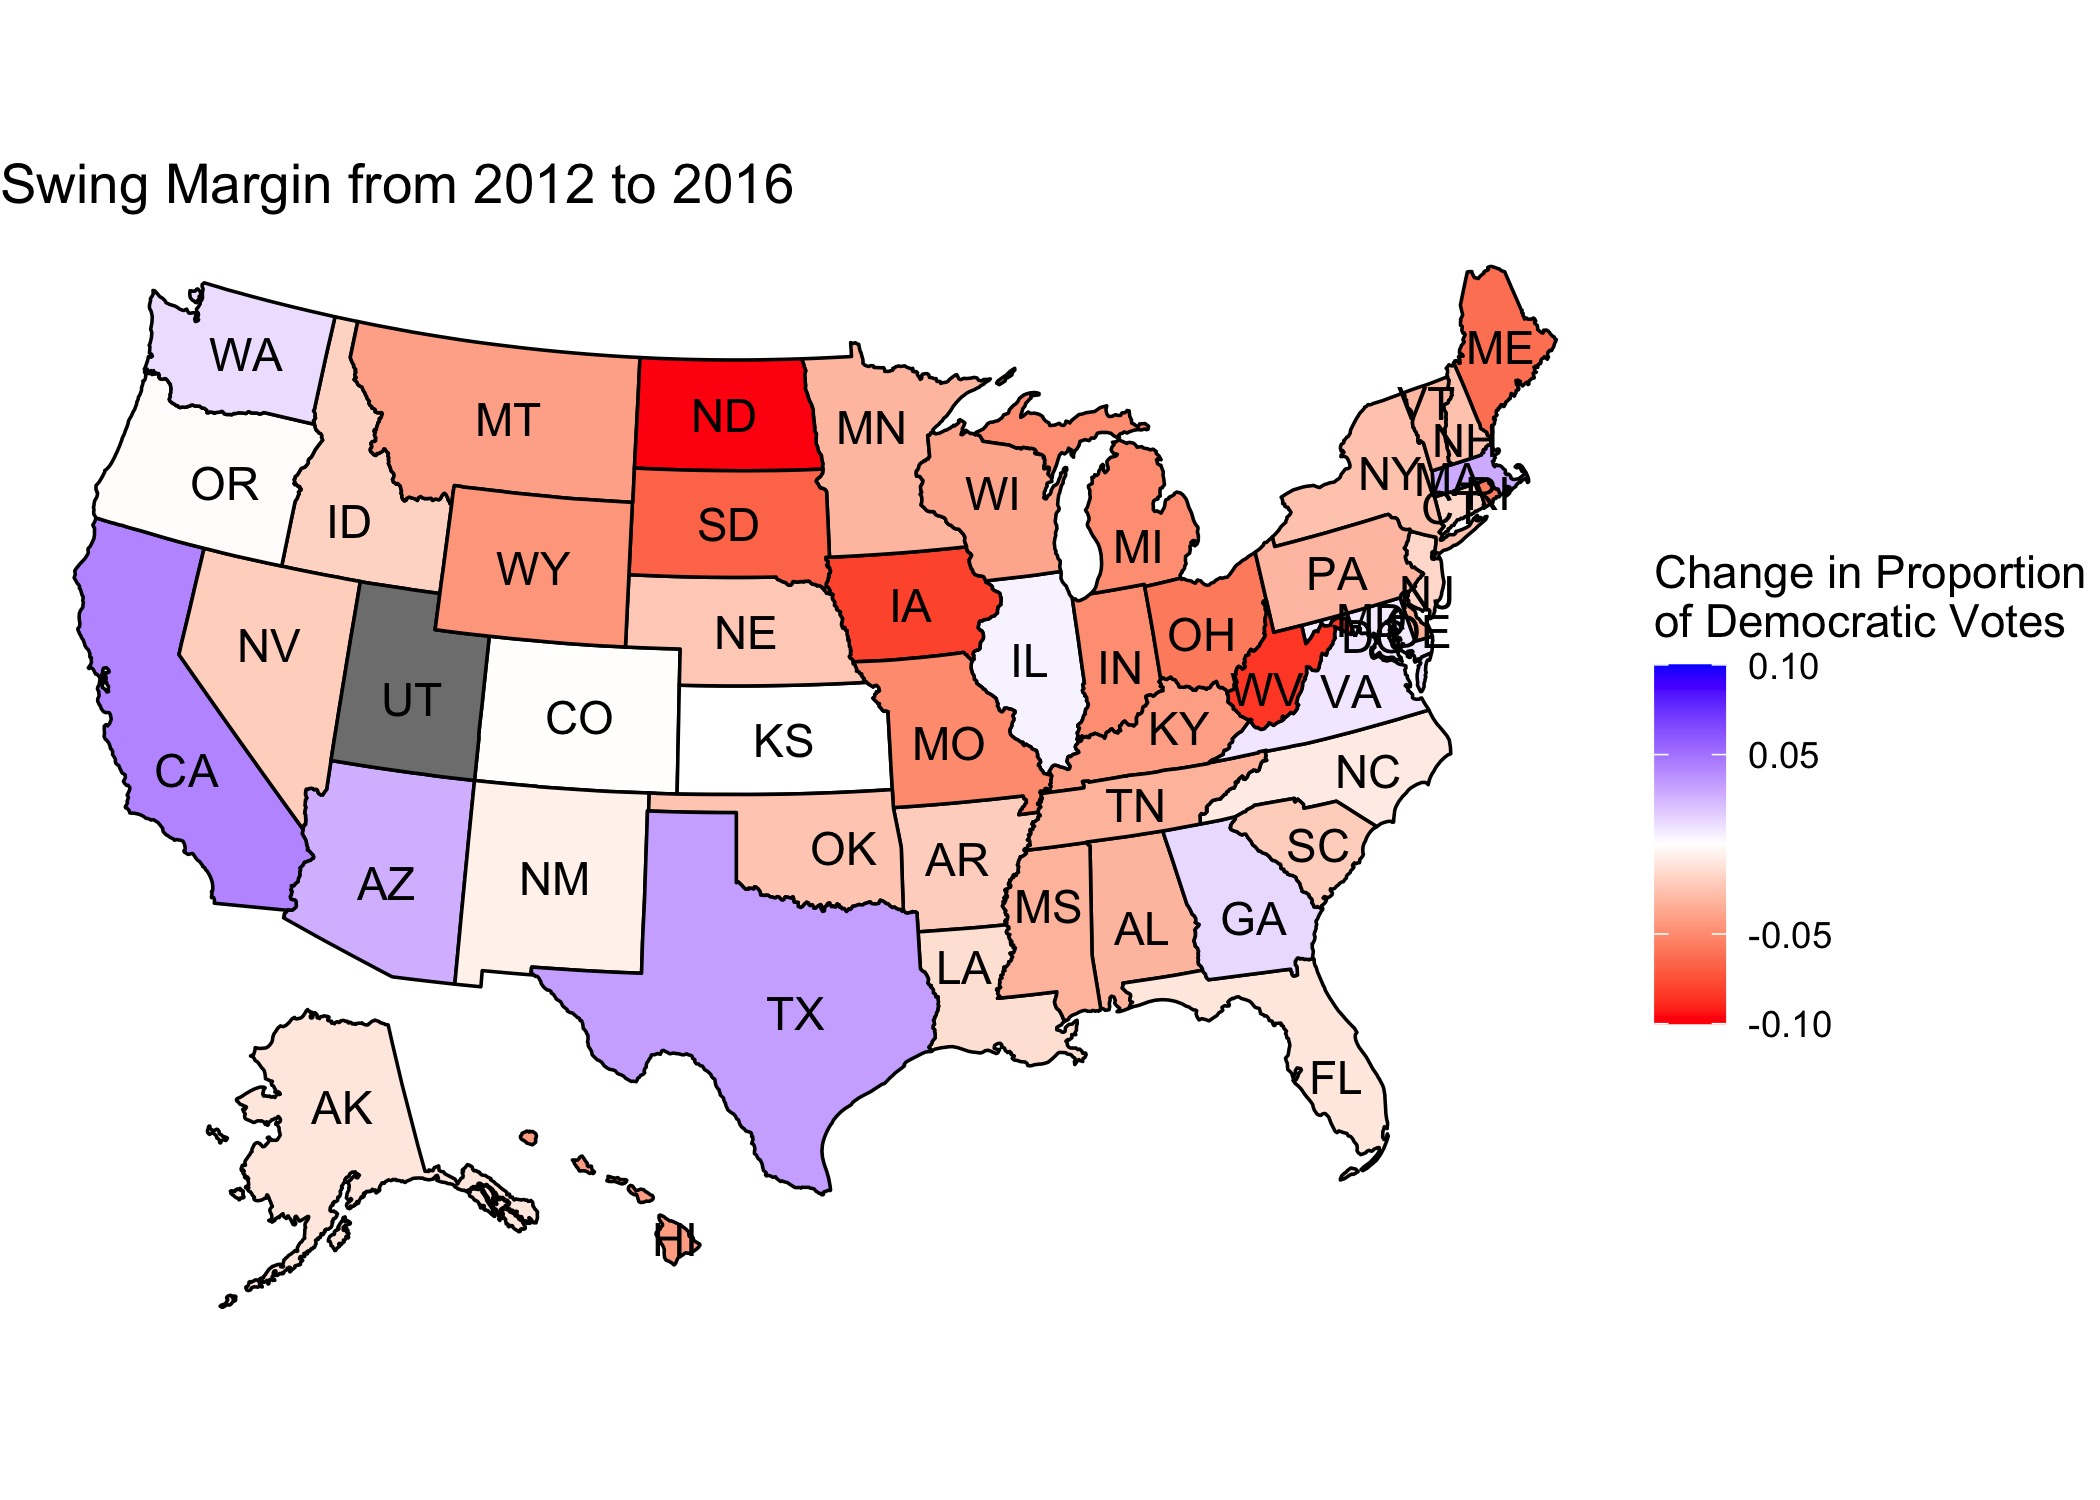
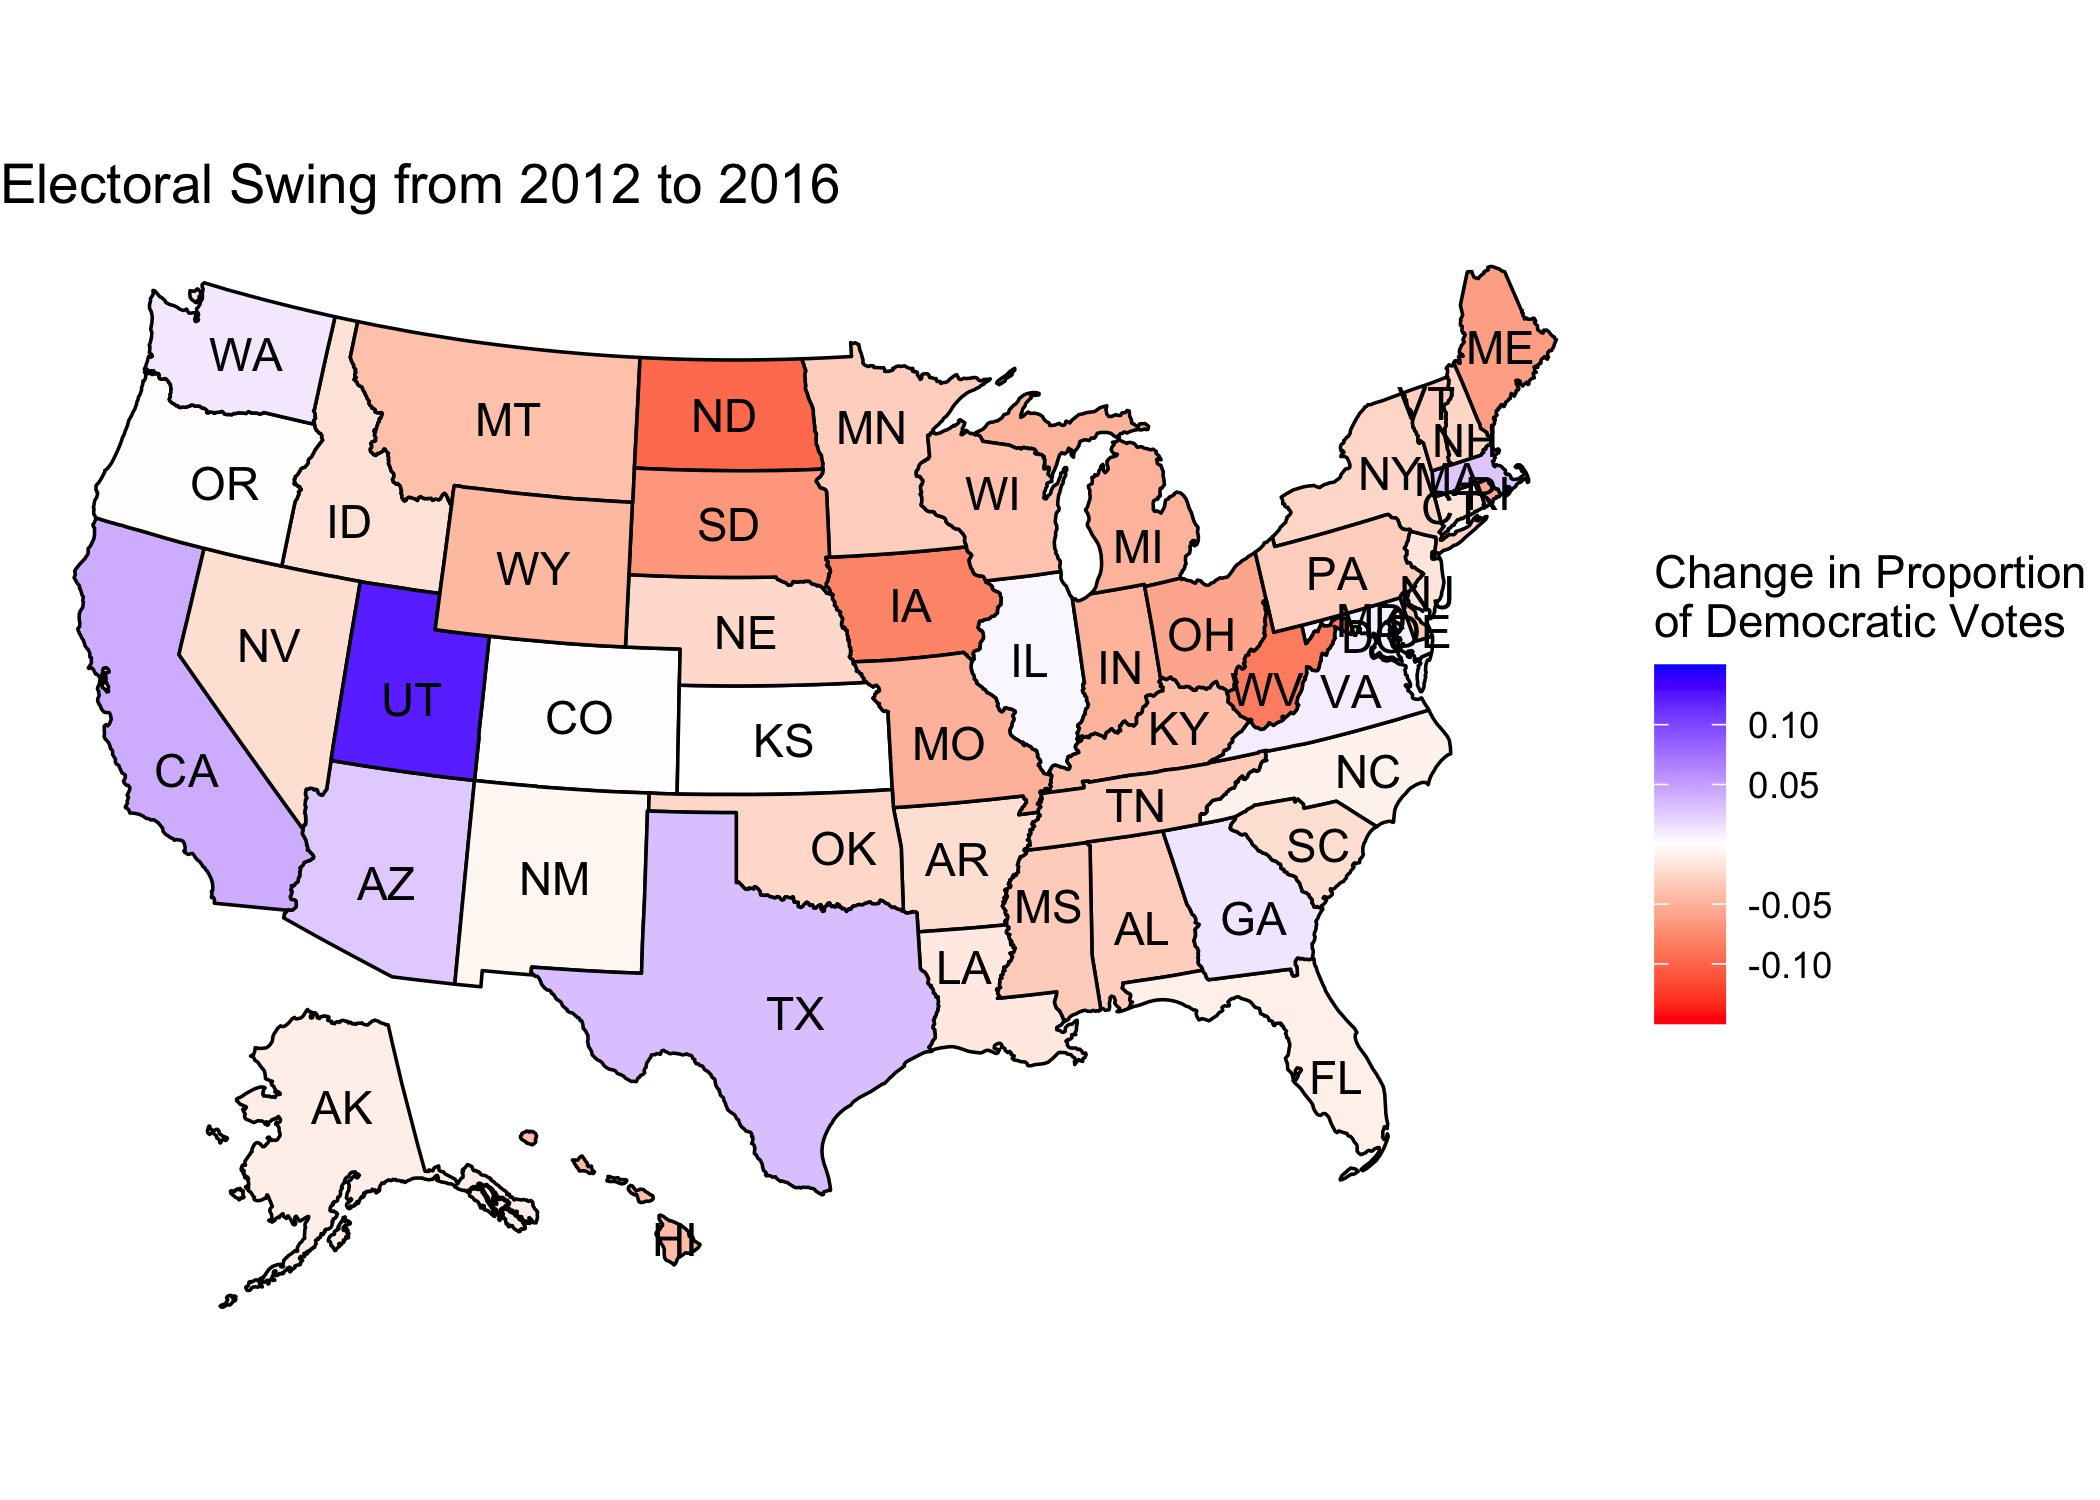
edited the text of markdown draft quite a bit

diff --git a/figures/swing_table.html b/figures/swing_table.html
@@ -11,7 +11,7 @@
   font-family: -apple-system, BlinkMacSystemFont, 'Segoe UI', Roboto, Oxygen, Ubuntu, Cantarell, 'Helvetica Neue', 'Fira Sans', 'Droid Sans', Arial, sans-serif;
 }
 
-#mmubdtsrbc .gt_table {
+#otkrtbmjsy .gt_table {
   display: table;
   border-collapse: collapse;
   margin-left: auto;
@@ -36,7 +36,7 @@
   border-left-color: #D3D3D3;
 }
 
-#mmubdtsrbc .gt_heading {
+#otkrtbmjsy .gt_heading {
   background-color: #FFFFFF;
   text-align: center;
   border-bottom-color: #FFFFFF;
@@ -48,7 +48,7 @@
   border-right-color: #D3D3D3;
 }
 
-#mmubdtsrbc .gt_title {
+#otkrtbmjsy .gt_title {
   color: #333333;
   font-size: 125%;
   font-weight: initial;
@@ -58,7 +58,7 @@
   border-bottom-width: 0;
 }
 
-#mmubdtsrbc .gt_subtitle {
+#otkrtbmjsy .gt_subtitle {
   color: #333333;
   font-size: 85%;
   font-weight: initial;
@@ -68,13 +68,13 @@
   border-top-width: 0;
 }
 
-#mmubdtsrbc .gt_bottom_border {
+#otkrtbmjsy .gt_bottom_border {
   border-bottom-style: solid;
   border-bottom-width: 2px;
   border-bottom-color: #D3D3D3;
 }
 
-#mmubdtsrbc .gt_col_headings {
+#otkrtbmjsy .gt_col_headings {
   border-top-style: solid;
   border-top-width: 2px;
   border-top-color: #D3D3D3;
@@ -89,7 +89,7 @@
   border-right-color: #D3D3D3;
 }
 
-#mmubdtsrbc .gt_col_heading {
+#otkrtbmjsy .gt_col_heading {
   color: #333333;
   background-color: #FFFFFF;
   font-size: 100%;
@@ -109,7 +109,7 @@
   overflow-x: hidden;
 }
 
-#mmubdtsrbc .gt_column_spanner_outer {
+#otkrtbmjsy .gt_column_spanner_outer {
   color: #333333;
   background-color: #FFFFFF;
   font-size: 100%;
@@ -121,15 +121,15 @@
   padding-right: 4px;
 }
 
-#mmubdtsrbc .gt_column_spanner_outer:first-child {
+#otkrtbmjsy .gt_column_spanner_outer:first-child {
   padding-left: 0;
 }
 
-#mmubdtsrbc .gt_column_spanner_outer:last-child {
+#otkrtbmjsy .gt_column_spanner_outer:last-child {
   padding-right: 0;
 }
 
-#mmubdtsrbc .gt_column_spanner {
+#otkrtbmjsy .gt_column_spanner {
   border-bottom-style: solid;
   border-bottom-width: 2px;
   border-bottom-color: #D3D3D3;
@@ -141,7 +141,7 @@
   width: 100%;
 }
 
-#mmubdtsrbc .gt_group_heading {
+#otkrtbmjsy .gt_group_heading {
   padding: 8px;
   color: #333333;
   background-color: #FFFFFF;
@@ -163,7 +163,7 @@
   vertical-align: middle;
 }
 
-#mmubdtsrbc .gt_empty_group_heading {
+#otkrtbmjsy .gt_empty_group_heading {
   padding: 0.5px;
   color: #333333;
   background-color: #FFFFFF;
@@ -178,15 +178,15 @@
   vertical-align: middle;
 }
 
-#mmubdtsrbc .gt_from_md > :first-child {
+#otkrtbmjsy .gt_from_md > :first-child {
   margin-top: 0;
 }
 
-#mmubdtsrbc .gt_from_md > :last-child {
+#otkrtbmjsy .gt_from_md > :last-child {
   margin-bottom: 0;
 }
 
-#mmubdtsrbc .gt_row {
+#otkrtbmjsy .gt_row {
   padding-top: 8px;
   padding-bottom: 8px;
   padding-left: 5px;
@@ -205,7 +205,7 @@
   overflow-x: hidden;
 }
 
-#mmubdtsrbc .gt_stub {
+#otkrtbmjsy .gt_stub {
   color: #333333;
   background-color: #FFFFFF;
   font-size: 100%;
@@ -217,7 +217,7 @@
   padding-left: 12px;
 }
 
-#mmubdtsrbc .gt_summary_row {
+#otkrtbmjsy .gt_summary_row {
   color: #333333;
   background-color: #FFFFFF;
   text-transform: inherit;
@@ -227,7 +227,7 @@
   padding-right: 5px;
 }
 
-#mmubdtsrbc .gt_first_summary_row {
+#otkrtbmjsy .gt_first_summary_row {
   padding-top: 8px;
   padding-bottom: 8px;
   padding-left: 5px;
@@ -237,7 +237,7 @@
   border-top-color: #D3D3D3;
 }
 
-#mmubdtsrbc .gt_grand_summary_row {
+#otkrtbmjsy .gt_grand_summary_row {
   color: #333333;
   background-color: #FFFFFF;
   text-transform: inherit;
@@ -247,7 +247,7 @@
   padding-right: 5px;
 }
 
-#mmubdtsrbc .gt_first_grand_summary_row {
+#otkrtbmjsy .gt_first_grand_summary_row {
   padding-top: 8px;
   padding-bottom: 8px;
   padding-left: 5px;
@@ -257,11 +257,11 @@
   border-top-color: #D3D3D3;
 }
 
-#mmubdtsrbc .gt_striped {
+#otkrtbmjsy .gt_striped {
   background-color: rgba(128, 128, 128, 0.05);
 }
 
-#mmubdtsrbc .gt_table_body {
+#otkrtbmjsy .gt_table_body {
   border-top-style: solid;
   border-top-width: 2px;
   border-top-color: #D3D3D3;
@@ -270,7 +270,7 @@
   border-bottom-color: #D3D3D3;
 }
 
-#mmubdtsrbc .gt_footnotes {
+#otkrtbmjsy .gt_footnotes {
   color: #333333;
   background-color: #FFFFFF;
   border-bottom-style: none;
@@ -284,13 +284,13 @@
   border-right-color: #D3D3D3;
 }
 
-#mmubdtsrbc .gt_footnote {
+#otkrtbmjsy .gt_footnote {
   margin: 0px;
   font-size: 90%;
   padding: 4px;
 }
 
-#mmubdtsrbc .gt_sourcenotes {
+#otkrtbmjsy .gt_sourcenotes {
   color: #333333;
   background-color: #FFFFFF;
   border-bottom-style: none;
@@ -304,49 +304,49 @@
   border-right-color: #D3D3D3;
 }
 
-#mmubdtsrbc .gt_sourcenote {
+#otkrtbmjsy .gt_sourcenote {
   font-size: 90%;
   padding: 4px;
 }
 
-#mmubdtsrbc .gt_left {
+#otkrtbmjsy .gt_left {
   text-align: left;
 }
 
-#mmubdtsrbc .gt_center {
+#otkrtbmjsy .gt_center {
   text-align: center;
 }
 
-#mmubdtsrbc .gt_right {
+#otkrtbmjsy .gt_right {
   text-align: right;
   font-variant-numeric: tabular-nums;
 }
 
-#mmubdtsrbc .gt_font_normal {
+#otkrtbmjsy .gt_font_normal {
   font-weight: normal;
 }
 
-#mmubdtsrbc .gt_font_bold {
+#otkrtbmjsy .gt_font_bold {
   font-weight: bold;
 }
 
-#mmubdtsrbc .gt_font_italic {
+#otkrtbmjsy .gt_font_italic {
   font-style: italic;
 }
 
-#mmubdtsrbc .gt_super {
+#otkrtbmjsy .gt_super {
   font-size: 65%;
 }
 
-#mmubdtsrbc .gt_footnote_marks {
+#otkrtbmjsy .gt_footnote_marks {
   font-style: italic;
   font-size: 65%;
 }
 </style>
-<div id="mmubdtsrbc" style="overflow-x:auto;overflow-y:auto;width:auto;height:auto;"><table class="gt_table">
+<div id="otkrtbmjsy" style="overflow-x:auto;overflow-y:auto;width:auto;height:auto;"><table class="gt_table">
   <thead class="gt_header">
     <tr>
-      <th colspan="4" class="gt_heading gt_title gt_font_normal" style>Swinging Battleground States in 2016</th>
+      <th colspan="4" class="gt_heading gt_title gt_font_normal" style>Electoral Swing in Battleground States from 2012 to 2016</th>
     </tr>
     <tr>
       <th colspan="4" class="gt_heading gt_subtitle gt_font_normal gt_bottom_border" style>Proportions of the Two-Party Vote</th>

diff --git a/posts/intro.md b/posts/intro.md
@@ -3,33 +3,32 @@
 
 #### Defining Electoral Swing
 
-The US Electoral College system places a great importance on *swing states*. However, the notion of electoral swing takes on several definitions that vary by context. For example, the label of *swing state* could indicate volatility between elections, such that it *swings* in one direction or another. Conversely, one may also consider a *swing state* as a state that consistently posts close races that could *swing* either way. 
+During election season, political aficionados devote large amounts of attention to swing states. The US Electoral College system often places the election in the hands of voters in a select few states, often referred to as *swing states*. The notion of electoral swing takes on several definitions that vary by context. For example, a state with electoral volatility experiences *swings* in voting patterns between elections. Conversely, a state that consistently posts close races could *swing* either way on Election Day. 
 
-This analysis defines electoral *swing* by the first definition and focuses on the magnitude of changes in each party's vote share between elections. In this case, a larger quantity indicates a larger swing.
+For the purpose of this analysis, electoral **swing** focuses on the magnitude of changes in vote share between elections. By this definition, a state that experiences a large swing may not necessarily have a close election. To address close elections, this analysis defines **battleground** states as those with two-party vote shares between 45% and 55% for either one or both of the 2012 and 2016 presidential elections.
 
 #### Swing States in Recent Years
 
-For the past two decades, most states consistently voted either red or blue. However, Donald Trump flipped many reliably blue states to red in his 2016 victory and "blew up" the Electoral Map in the words of [Politico](https://www.politico.com/news/magazine/2020/02/07/election-2020-new-electoral-map-110496). The below graphic displays shifts in the two-party vote across the country between the 2012 and 2016 presidential elections: 
+For the past two decades, states followed similar voting patterns year over year. However, Donald Trump "[blew up]((https://www.politico.com/news/magazine/2020/02/07/election-2020-new-electoral-map-110496)" the Electoral Map in his 2016 victory when he flipped many reliably blue states to red. The below graphic displays shifts in the two-party vote across the country between the 2012 and 2016 presidential elections: 
 
 ![](../figures/swing_map.jpg)
 
-Positive values indicate blue-trending states, while negative values indicated red-trending states. In the above map, there are far more red-trending states than blue, indicating that Republican vote share increased in the 2016 presidential race relative to the 2012 race, as expected given the outcome of the election.
+Positive values indicate blue-trending states, while negative values indicated red-trending states. In the above map, there are far more red-trending states than blue, indicating that Republican vote share increased in the 2016 presidential race relative to the 2012 race, as expected given the outcomes of the two elections.[^bignote]
 
-To take a closer look at trends between 2012 and 2016, it is helpful to identify key *battleground* states that have swung in one direction or another. To begin, one must define 
-*battleground state*. Generally, *battleground states* have a close race between the two competing parties. For the purpose of this analysis, I defined *battleground states* as those with vote shares between 45% and 55% in at least one of the 2012 and 2016 presidential elections. The plot displays these battleground states and their respective changes in two-party Democratic vote share (see this  [table](../figures/swing_table.html) for full data):
+To take a closer look at trends between 2012 and 2016, it is helpful to identify key battleground states that have swung in one direction or another. The plot below displays battleground states and their respective changes in two-party vote share (see this  [table](../figures/swing_table.html) for full data):
 
 ![](../figures/swing_point_line.jpg)
 
-Of the states that met the pre-defined *battleground* criteria, three out of four of the blue-trending battleground states voted Republican in both elections, with none of the blue-trending states flipping. Likewise, the vast majority of red-trending battleground states voted Democrat in 2012.
+Of the states that met the pre-defined *battleground* criteria, three out of four of the blue-trending battleground states voted Republican in both elections, and none of the blue-trending states flipped parties. Texas exhibited the largest Democratic shift, followed by Arizona and Georgia. If the trends in these states continue over time, they could reasonably flip to blue in the next few election cycles. 
 
-Texas exhibited the largest Democratic shift, followed by Arizona and Georgia. If the trends in these states continue over time, they could reasonably flip to blue in the next few election cycles. 
-
-In the 2016 election, Florida, Pennsylvania, Wisconsin, Michigan, Ohio, and Iowa flipped from blue to red, with Iowa doing so by the largest margin. While Maine missed the mark to flip in 2016 by a narrow margin, the state could plausibly vote Republican in 2020 if the trend continues. In general, red-trending states saw shifts of a larger magnitude than blue-trending states:
+The vast majority of red-trending battleground states voted for Barack Obama in 2012. In the 2016 election, Florida, Pennsylvania, Wisconsin, Michigan, Ohio, and Iowa flipped from blue to red, with Iowa doing so by the largest margin. While Maine narrowly failed to flip to red in 2016, the state could plausibly vote Republican in 2020 if the trend continues. In general, red-trending states saw shifts of a larger magnitude than blue-trending states:
 
 ![](../figures/swing_bars.jpg)
 
 #### Looking Forward
 
-With the 2020 election on the horizon, the possibility of electoral swing has become increasingly important. Research by [Gallup](https://news.gallup.com/poll/313079/mood-doesn-bright-incumbents-win.aspx) reveals that an incumbent can still win re-election in the face of low approval numbers, so a Democratic victory in 2020 requires enough red states from 2016 to swing blue. The [New York Times](https://www.nytimes.com/interactive/2020/us/elections/election-states-biden-trump.html) supports this notion that voters in a dozen competitive states will decide the 2020 presidential race.
+With the 2020 election on the horizon, the possibility of electoral swing has become increasingly important. Research by [Gallup](https://news.gallup.com/poll/313079/mood-doesn-bright-incumbents-win.aspx) reveals that incumbents can still win re-election in the face of low approval numbers, so a Democratic victory in 2020 requires enough red states from 2016 to swing blue. This interactive tool by the [New York Times](https://www.nytimes.com/interactive/2020/us/elections/election-states-biden-trump.html) supports this notion that voters in a dozen competitive states will decide the 2020 presidential race.
 
-Of course, the additional context of COVID-19, the resulting economic turmoil, and racial protests around the country add additional noise to the election not captured in the trends observed between 2012 and 2016. However, patterns of the past lay the groundwork for the future, and shifting ideological trends in states may prove worthwhile when anticipating the results in November.
+Of course, the additional context of COVID-19, racial protests, and the resulting economic turmoil add additional noise not captured in the trends observed between 2012 and 2016. However, patterns of the past lay the groundwork for the future, and studying partisan shifts in states may prove worthwhile when anticipating the results in November.
+
+[^bignote]: The magnitude of the Democratic shift in Utah likely owes itself to the individual candidates running for office in 2012 and 2016 rather than partisan shifts across the state. Approximately [69%](https://newsroom.churchofjesuschrist.org/facts-and-statistics/state/utah) of Utah's population identifies with the Church of Jesus Christ of Latter-Day Saints. Mitt Romney, a Mormon, ran as the Republican candidate in 2012 and likely energized this base of voters. Donald Trump still managed to win Utah in 2016, but he failed to receive a majority of votes as Evan McMullin, a Mormon conservative, received [21.5%](https://www.270towin.com/states/Utah) of the vote as a third-party candidate.
